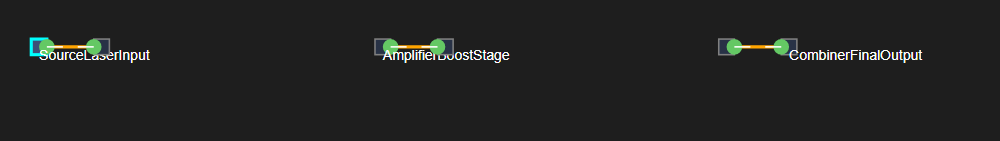
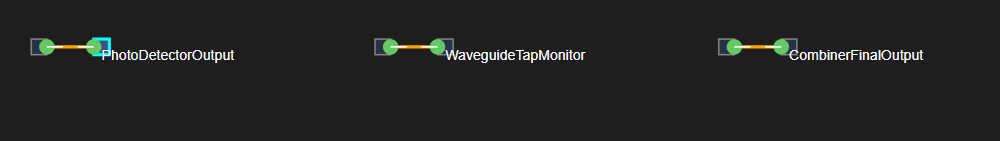
(=) Regenerate label-declutter walkthrough for the review fixes
The tie-break winner within a pair is no longer predictable from the
component's name — it's now Component.Id (a runtime Guid) — so the scene
builder determines pair 1's tie-break loser programmatically (same
ascending-Id ordering LabelOverlapResolver uses) instead of hardcoding
which name wins, and the step-4 caption is generated from the actual
result.

Added step 5: power-flow visualization on (via the same
PowerFlowVisualizer.UpdateFromSimulation entry point a real simulation run
uses) with nothing hovered or selected, plus one connection given a
non-Auto style — the concrete regression check for the gate-scope fix.
Confirmed by reading the regenerated screenshot: every connection shows its
dB/% readout and the styled connection's badge is visible, with no hover
or selection anywhere in the scene.

Claude-Session: https://claude.ai/code/session_01PCVwvkXdUH9DSW8w12XB2q

Changed region(s): [[0.031, 0.2553, 0.248, 0.4255], [0.372, 0.3404, 0.589, 0.4539], [0.806, 0.3404, 0.93, 0.4255]]

diff --git a/UnitTests/UI/CanvasLabelDeclutterWalkthroughTests.cs b/UnitTests/UI/CanvasLabelDeclutterWalkthroughTests.cs
@@ -1,3 +1,4 @@
+using System.Numerics;
 using System.Runtime.InteropServices;
 using System.Text.Json;
 using Avalonia;
@@ -8,6 +9,7 @@ using Avalonia.Media.Imaging;
 using Avalonia.Threading;
 using CAP.Avalonia.Controls;
 using CAP.Avalonia.ViewModels.Canvas;
+using CAP_Core.Components.Connections;
 using CAP_Core.Components.Core;
 using CAP_Core.Routing;
 using Shouldly;
@@ -22,10 +24,10 @@ namespace UnitTests.UI;
 /// Visual walkthrough for canvas label declutter: renders three tightly-spaced pairs of
 /// terminal components (so each pair's name labels are guaranteed to overlap) connected by
 /// routed waveguides, then captures the production <see cref="CAP.Avalonia.Controls.Rendering.WaveguideConnectionRenderer"/>
-/// and <see cref="CAP.Avalonia.Controls.Rendering.ComponentRenderer"/> output in four states —
-/// zoomed-out overview, zoomed-in (font cap), hover (length reveal), and selection (name-overlap
-/// priority) — as step-ordered PNGs + manifest.json in
-/// <c>artifacts/ui-screenshots/canvas-label-declutter/</c>.
+/// and <see cref="CAP.Avalonia.Controls.Rendering.ComponentRenderer"/> output in five states —
+/// zoomed-out overview, zoomed-in (font clamp), hover (length reveal), selection (name-overlap
+/// priority), and power-flow-on (always-on readout + style badge, PR-review regression check) —
+/// as step-ordered PNGs + manifest.json in <c>artifacts/ui-screenshots/canvas-label-declutter/</c>.
 /// </summary>
 [Trait("Category", "UiScreenshots")]
 [Collection("LocalizationSingleton")]
@@ -40,7 +42,7 @@ public class CanvasLabelDeclutterWalkthroughTests
     private static readonly Rect OverviewViewport = new(-20, -25, 640, 90);
 
     /// <summary>Close-up on the middle pair only, near the app's zoom clamp (10x, see
-    /// <c>DesignCanvas.OnPointerWheelChanged</c>) to stress-test the font-size cap.</summary>
+    /// <c>DesignCanvas.OnPointerWheelChanged</c>) to stress-test the font-size clamp.</summary>
     private static readonly Rect ZoomedInViewport = new(200, -15, 120, 60);
 
     [AvaloniaFact]
@@ -75,15 +77,15 @@ public class CanvasLabelDeclutterWalkthroughTests
         });
 
         // Step 2: zoomed in close on the middle pair, near the app's zoom clamp. Without a
-        // screen-space cap the 12-14pt world-space font would balloon to ~100+ screen pixels;
-        // capped, it stays a small, legible, screen-constant size.
-        Capture(canvas, state, ZoomedInViewport, dir, "02-zoomed-in-font-capped.png");
+        // screen-space clamp the 12pt world-space font would balloon to ~100+ screen pixels;
+        // clamped, it stays a small, legible, screen-constant size.
+        Capture(canvas, state, ZoomedInViewport, dir, "02-zoomed-in-font-clamped.png");
         manifest.Add(new
         {
-            file = "02-zoomed-in-font-capped.png",
+            file = "02-zoomed-in-font-clamped.png",
             caption = "Zoomed in close on the middle pair (~8x, near the app's 10x zoom clamp). "
                 + "Name labels stay a small, legible, screen-constant size instead of ballooning "
-                + "with zoom — PinScreenSize.CapWorldFontSize applied to label text.",
+                + "with zoom — PinScreenSize.ClampWorldFontSize applied to label text.",
         });
 
         // Step 3: hovering a connection reveals its length/loss label on demand — the detail
@@ -99,17 +101,40 @@ public class CanvasLabelDeclutterWalkthroughTests
         });
         state.HoveredConnection = null;
 
-        // Step 4: selecting the pair-1 component that LOST the overlap tie-break in step 1
-        // ("SourceLaserInput") now wins over its unselected partner — selected outranks the
-        // deterministic ordinal tie-break, and both hovered and selected outrank plain "rest".
-        scene.SourceLaserInput.IsSelected = true;
+        // Step 4: selecting the pair-1 component that LOST the overlap tie-break in step 1 now
+        // wins over its unselected partner — selected outranks the deterministic Guid tie-break,
+        // and both hovered and selected outrank plain "rest". The loser is determined by the
+        // same ascending-Id ordering LabelOverlapResolver itself uses, not hardcoded, since
+        // component identity (Component.Id) is a runtime Guid.
+        scene.Pair1TieBreakLoser.IsSelected = true;
         Capture(canvas, state, OverviewViewport, dir, "04-selection-wins-name-overlap.png");
         manifest.Add(new
         {
             file = "04-selection-wins-name-overlap.png",
-            caption = "Selecting 'SourceLaserInput' — the name that lost pair 1's overlap "
-                + "tie-break in step 1 — now shows it instead of 'PhotoDetectorOutput': "
+            caption = $"Selecting '{scene.Pair1TieBreakLoser.Name}' — the name that lost pair "
+                + "1's overlap tie-break in step 1 — now shows it instead of its partner: "
                 + "selected always outranks hovered, which always outranks the rest.",
+        });
+        scene.Pair1TieBreakLoser.IsSelected = false;
+
+        // Step 5: PR-review regression check — turning on power-flow visualization (equivalent
+        // to a completed simulation run) must show every connection's dB/% readout WITHOUT
+        // hovering anything, and a manually-styled connection's badge must stay visible too.
+        // A prior version of this feature wrapped the hover/selection gate around the entire
+        // connection text-overlay draw call, which silently hid both of these as well —
+        // the fix scopes the gate to exactly the length/loss label (WaveguideConnectionRenderer.
+        // ShouldShowLengthLossLabel).
+        ApplyPowerFlow(canvas, scene);
+        scene.Pair1Connection.Connection.Type = WaveguideType.Cobra;
+        Capture(canvas, state, OverviewViewport, dir, "05-power-flow-and-badge-always-on.png");
+        manifest.Add(new
+        {
+            file = "05-power-flow-and-badge-always-on.png",
+            caption = "Power-flow visualization on (as after a completed simulation run) shows "
+                + "every connection's dB/% readout with nothing hovered or selected — the "
+                + "length/loss label is the ONLY overlay hover/selection gates. Pair 1's "
+                + "connection also carries a manually-styled (non-Auto, 'Cobra') badge, "
+                + "likewise always-on.",
         });
 
         File.WriteAllText(
@@ -121,7 +146,10 @@ public class CanvasLabelDeclutterWalkthroughTests
     /// and 170+ µm apart from the next pair (no cross-pair overlap), each pair joined by a
     /// straight routed waveguide built from the pins' own absolute positions so the route is
     /// never flagged stale.</summary>
-    private sealed record Scene(ComponentViewModel SourceLaserInput, WaveguideConnectionViewModel Pair1Connection);
+    private sealed record Scene(
+        ComponentViewModel Pair1TieBreakLoser,
+        WaveguideConnectionViewModel Pair1Connection,
+        IReadOnlyList<(CrossingTestCircuit.Terminal Left, CrossingTestCircuit.Terminal Right)> Pairs);
 
     private static Scene BuildScene(DesignCanvasViewModel canvas)
     {
@@ -136,8 +164,33 @@ public class CanvasLabelDeclutterWalkthroughTests
         ConnectStraight(canvas, c, d);
         ConnectStraight(canvas, e, f);
 
-        var sourceLaserInputVm = canvas.Components.Single(vm => vm.Component == a.Component);
-        return new Scene(sourceLaserInputVm, pair1Connection);
+        // The tie-break winner is whichever component LabelOverlapResolver's ascending-Id
+        // ordering would accept first (smaller Component.Id) — the loser is the other one.
+        var aVm = canvas.Components.Single(vm => vm.Component == a.Component);
+        var bVm = canvas.Components.Single(vm => vm.Component == b.Component);
+        var pair1Loser = a.Component.Id.CompareTo(b.Component.Id) < 0 ? bVm : aVm;
+
+        var pairs = new[] { (a, b), (c, d), (e, f) };
+        return new Scene(pair1Loser, pair1Connection, pairs);
+    }
+
+    /// <summary>Populates real power-flow data (0 dB in, ~1 dB loss out) for every pair's
+    /// connection via the same <see cref="CAP.Avalonia.Visualization.PowerFlowVisualizer.UpdateFromSimulation"/>
+    /// entry point a completed simulation run uses — not a rendering-only shortcut.</summary>
+    private static void ApplyPowerFlow(DesignCanvasViewModel canvas, Scene scene)
+    {
+        var fieldResults = new Dictionary<Guid, Complex>();
+        foreach (var (left, right) in scene.Pairs)
+        {
+            fieldResults[left.LogicalPin.IDOutFlow] = new Complex(1.0, 0);
+            fieldResults[right.LogicalPin.IDInFlow] = new Complex(0.9, 0);
+        }
+
+        canvas.PowerFlowVisualizer.UpdateFromSimulation(
+            canvas.Connections.Select(c => c.Connection).ToList(),
+            canvas.Components.Select(c => c.Component).ToList(),
+            fieldResults);
+        canvas.ShowPowerFlow = true;
     }
 
     /// <summary>Builds a straight cached route between two terminals' own pin positions, so the
